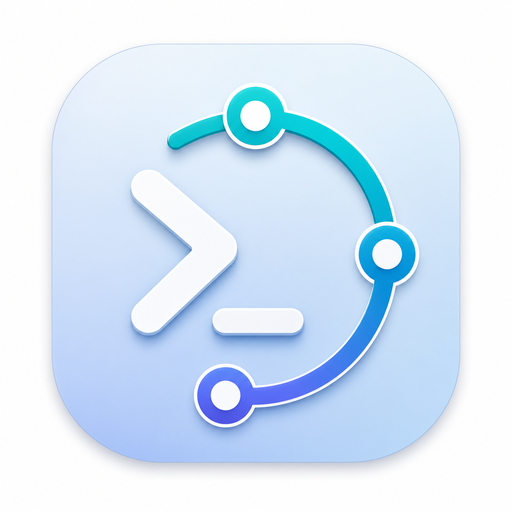
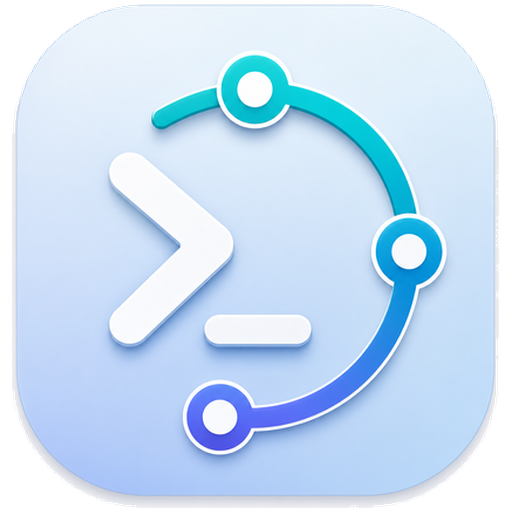
Add files via upload

diff --git a/src/app.rs b/src/app.rs
@@ -727,9 +727,9 @@ pub fn run() -> Result<()> {
         let weak = window.as_weak();
         let layout = layout.clone();
         let content_size = content_size.clone();
-        let tabs_model = tabs_model.clone();
         let panes_model = panes_model.clone();
         let splitters_model = splitters_model.clone();
+        let tabs_model = tabs_model.clone();
         window.on_content_resized(move |w: f32, h: f32| {
             content_size.set((w, h));
             if let Some(win) = weak.upgrade() {
@@ -2380,6 +2380,8 @@ fn wire_session_callbacks(
         let terminals_model = terminals_model.clone();
         let layout = layout.clone();
         let content_size = content_size.clone();
+        let panes_model = panes_model.clone();
+        let splitters_model = splitters_model.clone();
         let handles = handles.clone();
         let bufs = bufs.clone();
         let runtime = runtime.clone();
@@ -2396,6 +2398,50 @@ fn wire_session_callbacks(
                 Some(s) => s,
                 None => return,
             };
+
+            // If this saved session is already open, switch to its existing tab
+            // instead of spawning duplicate pages forever. This makes the left
+            // quick-connect list behave like a navigator: click once to open,
+            // click again to jump back to the running session.
+            let existing_tab = {
+                let statuses = tab_statuses.lock().unwrap();
+                statuses
+                    .iter()
+                    .find(|(tab, st)| {
+                        st.session_id == id
+                            && (0..tabs_model.row_count()).any(|i| {
+                                tabs_model
+                                    .row_data(i)
+                                    .map(|r| r.id.as_str() == tab.as_str())
+                                    .unwrap_or(false)
+                            })
+                    })
+                    .map(|(tab, _)| tab.clone())
+            };
+            if let Some(existing_tab) = existing_tab {
+                if let Some(w) = weak.upgrade() {
+                    if let Some(pane_id) = layout.borrow().leaf_of_tab(&existing_tab) {
+                        {
+                            let mut lay = layout.borrow_mut();
+                            lay.focused = pane_id;
+                            if let Some(leaf) = lay.leaf_mut(pane_id) {
+                                leaf.active = existing_tab.clone();
+                            }
+                        }
+                        refresh_panes(
+                            &w,
+                            &layout.borrow(),
+                            content_size.get(),
+                            &tabs_model,
+                            &panes_model,
+                            &splitters_model,
+                        );
+                        w.set_active_tab_id(existing_tab.into());
+                    }
+                }
+                return;
+            }
+
             let tab_id = format!("term-{}", uuid::Uuid::new_v4());
             let tab_title = session.name.clone();
 

diff --git a/src/sftp.rs b/src/sftp.rs
@@ -380,25 +380,29 @@ async fn run_sftp(
         return Err(anyhow!(t("SFTP 认证失败", "SFTP authentication failed")));
     }
 
-    // --- Open the sftp subsystem channel -----------------------------------
-    // Some routers / embedded Linux boxes (for example many OpenWrt/Dropbear
-    // installations) allow interactive SSH but do not provide an SFTP
-    // subsystem. MobaXterm's "SSH browser" still works there because it can
-    // fall back to shell commands. Probe Shell v0.6 keeps native SFTP as the
-    // first choice, then falls back to a read/write SSH file-browser mode for
-    // basic directory browsing and text-file operations.
+    // --- Open remote file browser ------------------------------------------
+    // Probe Shell is aimed at routers/OpenWrt/NAS devices. Those often allow
+    // normal SSH exec but do not provide a standard SFTP subsystem. MobaXterm's
+    // file browser works because it tries an SSH/SCP-style browser first. Do the
+    // same here: if basic shell exec works, use the lightweight SSH browser by
+    // default. Only fall back to native SFTP when exec is blocked but the SFTP
+    // subsystem is available.
+    if shell_pwd(&handle).await.is_ok() {
+        let _ = events.send(SessionEvent::SftpStatus(t(
+            "SSH 文件浏览模式",
+            "SSH file-browser mode",
+        ).into()));
+        return run_ssh_file_browser(handle, commands, events).await;
+    }
+
     let sftp = match open_sftp_subsystem(&handle).await {
         Ok(sftp) => sftp,
         Err(err) => {
             let _ = events.send(SessionEvent::SftpStatus(format!(
-                "{}: {err:#}. {}",
-                t("SFTP 子系统不可用", "SFTP subsystem unavailable"),
-                t(
-                    "已切换到 SSH 文件浏览模式",
-                    "Using SSH file-browser fallback"
-                )
+                "{}: {err:#}",
+                t("文件浏览不可用", "Remote file browser unavailable")
             )));
-            return run_ssh_file_browser(handle, commands, events).await;
+            return Err(err);
         }
     };
     // Share the session + connection so transfers can run on their own task,

diff --git a/src/quick_actions.rs b/src/quick_actions.rs
@@ -25,6 +25,9 @@ pub fn starter_quick_commands() -> Vec<QuickCommand> {
         cmd("进程 Top", "ps aux --sort=-%mem | head -20", "System"),
         cmd("OpenWrt 版本", "ubus call system board", "OpenWrt"),
         cmd("OpenWrt 日志", "logread -f", "OpenWrt"),
+        cmd("编辑防火墙", "vi /etc/config/firewall", "OpenWrt"),
+        cmd("IPv6 邻居", "ip -6 neigh show", "OpenWrt"),
+        cmd("WAN6 地址", "ip -6 addr show dev pppoe", "OpenWrt"),
         cmd("DHCP 租约", "cat /tmp/dhcp.leases", "OpenWrt"),
         cmd("Docker 容器", "docker ps --format 'table {{.Names}}\\t{{.Status}}\\t{{.Ports}}'", "Docker"),
         cmd("Docker 占用", "docker stats --no-stream", "Docker"),

diff --git a/README.en.md b/README.en.md
@@ -169,3 +169,23 @@ probe-shell/
 ## License
 
 Dual-licensed under MIT OR Apache-2.0.
+
+
+## Probe Shell preview release note
+
+The current preview Release workflow intentionally builds only the Windows x86_64 portable ZIP. AUR publishing, MSI, Linux, and macOS packaging are disabled for now to keep releases stable while the project is being customized.
+
+## v0.6 SFTP / file-browser fix
+
+Probe Shell v0.6 tries the standard SFTP subsystem first.
+If the server does not provide SFTP, such as many OpenWrt / Dropbear routers, it automatically falls back to SSH file-browser mode.
+This fallback does not require `openssh-sftp-server` and can still browse internal directories such as `/etc`, `/root`, and `/www`.
+
+The fallback currently supports browsing, entering folders, mkdir, touch, delete, rename, chmod, opening/saving UTF-8 text files, and single-file downloads.
+For bulk upload/download, install `openssh-sftp-server` on the server and use full SFTP.
+
+
+
+### v0.6.1-probe1 update notes
+
+This build focuses on product polish rather than adding visual complexity: light mode is opaque and readable, clicking an existing session jumps to its current tab, SSH-browser file browsing is preferred for OpenWrt/Dropbear devices, folders can be opened directly from the file panel, the SFTP tree/list divider is resizable, Telnet defaults to port 23, and router IPv6/firewall quick commands are included.

diff --git a/CHANGELOG.md b/CHANGELOG.md
@@ -1,3 +1,13 @@
+
+## v0.6.1-probe1
+
+- Light mode readability: wallpaper immersion is now dark-mode only; light mode uses opaque Win11-style surfaces so text and SFTP tables no longer look grey/washed out.
+- Session navigation: clicking a saved session now jumps to its existing open tab instead of opening duplicate tabs repeatedly.
+- SFTP/SSH browser UX: folders open by click/double-click, file list right-click gets an Open Folder action, and the directory-tree / file-list splitter can be dragged left or right.
+- Router workflow: added quick commands for `vi /etc/config/firewall`, `ip -6 neigh show`, and `ip -6 addr show dev pppoe`.
+- Telnet defaults to port 23 when switching the new-session dialog to Telnet.
+- Remote files: SSH-browser mode is preferred first for OpenWrt/Dropbear-style devices; native SFTP is used when shell exec is unavailable.
+- Icon packaging: refreshed PNG/ICO assets with a transparent outer background so the Windows taskbar icon fills better and no longer shows a white tile edge.
 # Changelog
 
 ## v0.6.0-probe1

diff --git a/README.md b/README.md
@@ -190,3 +190,8 @@ Probe Shell v0.6 会优先使用标准 SFTP subsystem。
 当前 fallback 支持：目录浏览、进入文件夹、新建文件夹、新建文件、删除、重命名、chmod、打开/保存 UTF-8 文本、单文件下载。
 大批量上传下载仍建议服务器安装 openssh-sftp-server 后使用完整 SFTP。
 
+
+
+### v0.6.1-probe1 update notes
+
+This build focuses on product polish rather than adding visual complexity: light mode is opaque and readable, clicking an existing session jumps to its current tab, SSH-browser file browsing is preferred for OpenWrt/Dropbear devices, folders can be opened directly from the file panel, the SFTP tree/list divider is resizable, Telnet defaults to port 23, and router IPv6/firewall quick commands are included.